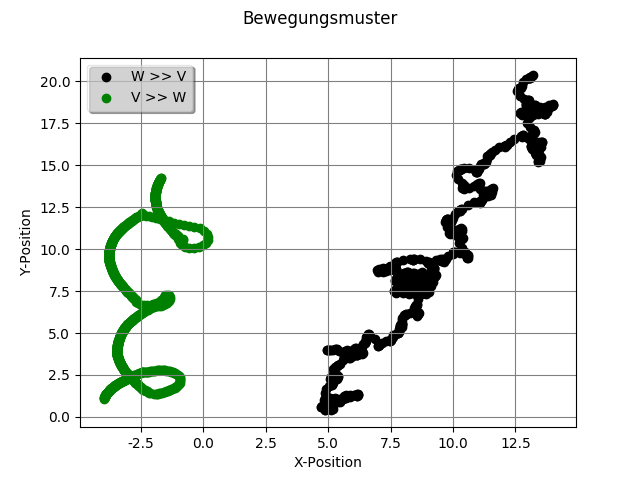
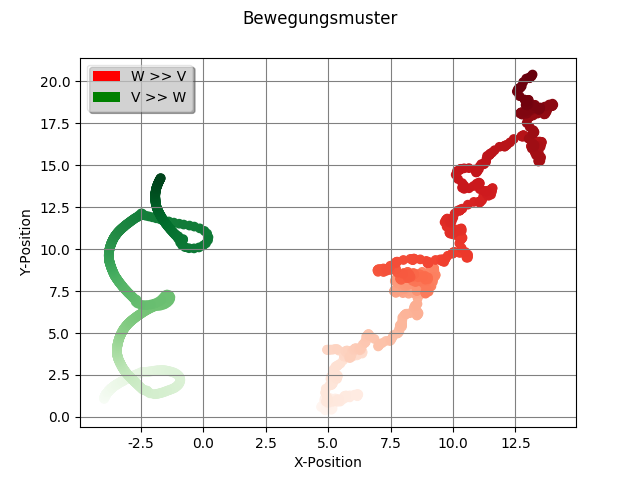
thesis: path fades, to bring the time dimension to the movement plots

Changed region(s): [[0.5, 0.125, 0.875, 0.875], [0.1562, 0.3438, 0.3438, 0.8438], [0.125, 0.125, 0.1875, 0.2188]]

diff --git a/test_results/move.py b/test_results/move.py
@@ -5,6 +5,7 @@ import matplotlib
 matplotlib.use('Agg') # don't try to display it
 import matplotlib.pyplot as plt
 import matplotlib.ticker as ticker
+from matplotlib.patches import Patch
 import numpy as np
 import re
 import random
@@ -26,6 +27,7 @@ if __name__ == '__main__':
 		print "%s in ..." % (sys.argv[0])
 		sys.exit(0)
 
+        ''' parse files '''
 	data = {}
 	for filename in sys.argv[1:]:
 		label = raw_input("Name fuer %s:" % (filename,))
@@ -33,29 +35,50 @@ if __name__ == '__main__':
 		f = csv.reader(open(filename), delimiter=';')
 		data[label] = parse_file(f)
 
-	colors = ['b', 'r', 'g', 'k']
+        ''' Add the measurements '''
+	colors = [('Greys', 'grey'),
+                ('Blues', 'blue'),
+                ('Greens', 'green'),
+                ('Reds', 'red')
+        ]
 	fig, ax = plt.subplots()
+        legend_elements = []
 
 	for name, measurement in data.iteritems():
 		print name, len(measurement)
+
 		x, y = zip(*measurement)
-		ax.scatter(x, y, label=name, color=colors.pop())
+                color = colors.pop() 
+                '''
+                As the measurements show a movement the older ones fade out, which means
+                they get a higher opacity. But set a minimum opacity to still show all
+                data.
+                '''
+                opacity = [i/float(len(x)) for i in xrange(0, len(x))]
+
+		ax.scatter(x, y, c=opacity, cmap=color[0])
+                legend_elements.append(Patch(facecolor=color[1], label=name))
 	
+        ''' Grid and size of plot '''
 	ax.margins(0.05)
 	ax.grid(color='grey')
 
+        ''' Only print a few axis steps '''
 	ax.xaxis.set_major_formatter(ticker.FormatStrFormatter('%0.1f'))
 	ax.xaxis.set_major_locator(ticker.MultipleLocator(base=2.5))
 	ax.yaxis.set_major_formatter(ticker.FormatStrFormatter('%0.1f'))
 	ax.yaxis.set_major_locator(ticker.MultipleLocator(base=2.5))
 
-	leg = plt.legend(loc='best', shadow=True, fancybox=True)
+        ''' Set up legend '''
+	leg = plt.legend(handles=legend_elements, loc='best', shadow=True, fancybox=True)
 	leg.get_frame().set_alpha(0.5)
 
+        ''' Labels '''
 	plt.xlabel("X-Position")
 	plt.ylabel("Y-Position")
 	supt = raw_input("Titel: ")
 	plt.suptitle(supt)
 
+        ''' write plot '''
 	out = raw_input("Dateiname:")
 	plt.savefig(out + ".png")

diff --git a/implementierung.tex b/implementierung.tex
@@ -604,7 +604,8 @@ Bewegungsmuster:
 \end{enumerate}
 
 Aus diesen k{\"{o}}nnen sich weitere Bewegungsarten zusammensetzen. Um zu testen ob in der Simulation die Bewegungsarten korrekt implementiert
-wurden, werden die abgefahren Wege f{\"{u}}r diese aufgezeichnet und mit den erwarteten Wegen verglichen.
+wurden, werden die abgefahren Wege f{\"{u}}r diese aufgezeichnet und mit den erwarteten Wegen verglichen. Um die Bewegungsrichtung zu erkennen
+werden Punkte die sp{\"{a}}ter angefahren werden dunkler gezeichnet als helle; die Spur verblasst also.
 \begin{figure}
 	\centering
 	\includevisio[width=\textwidth]{bewegungsmuster_simpel}
